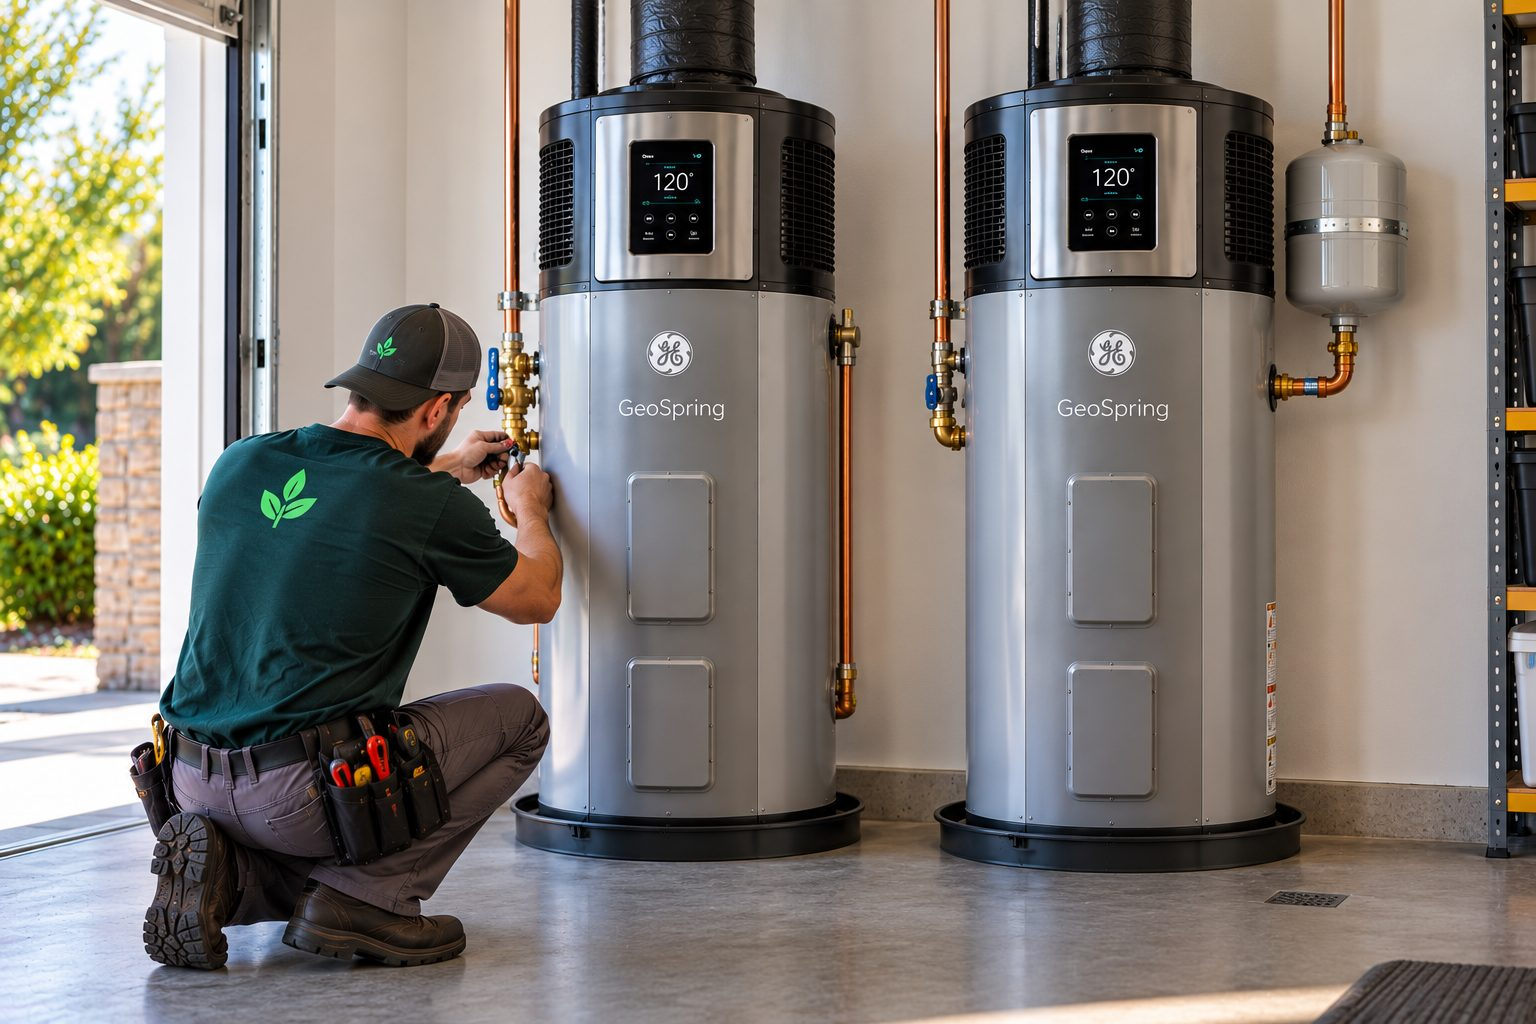
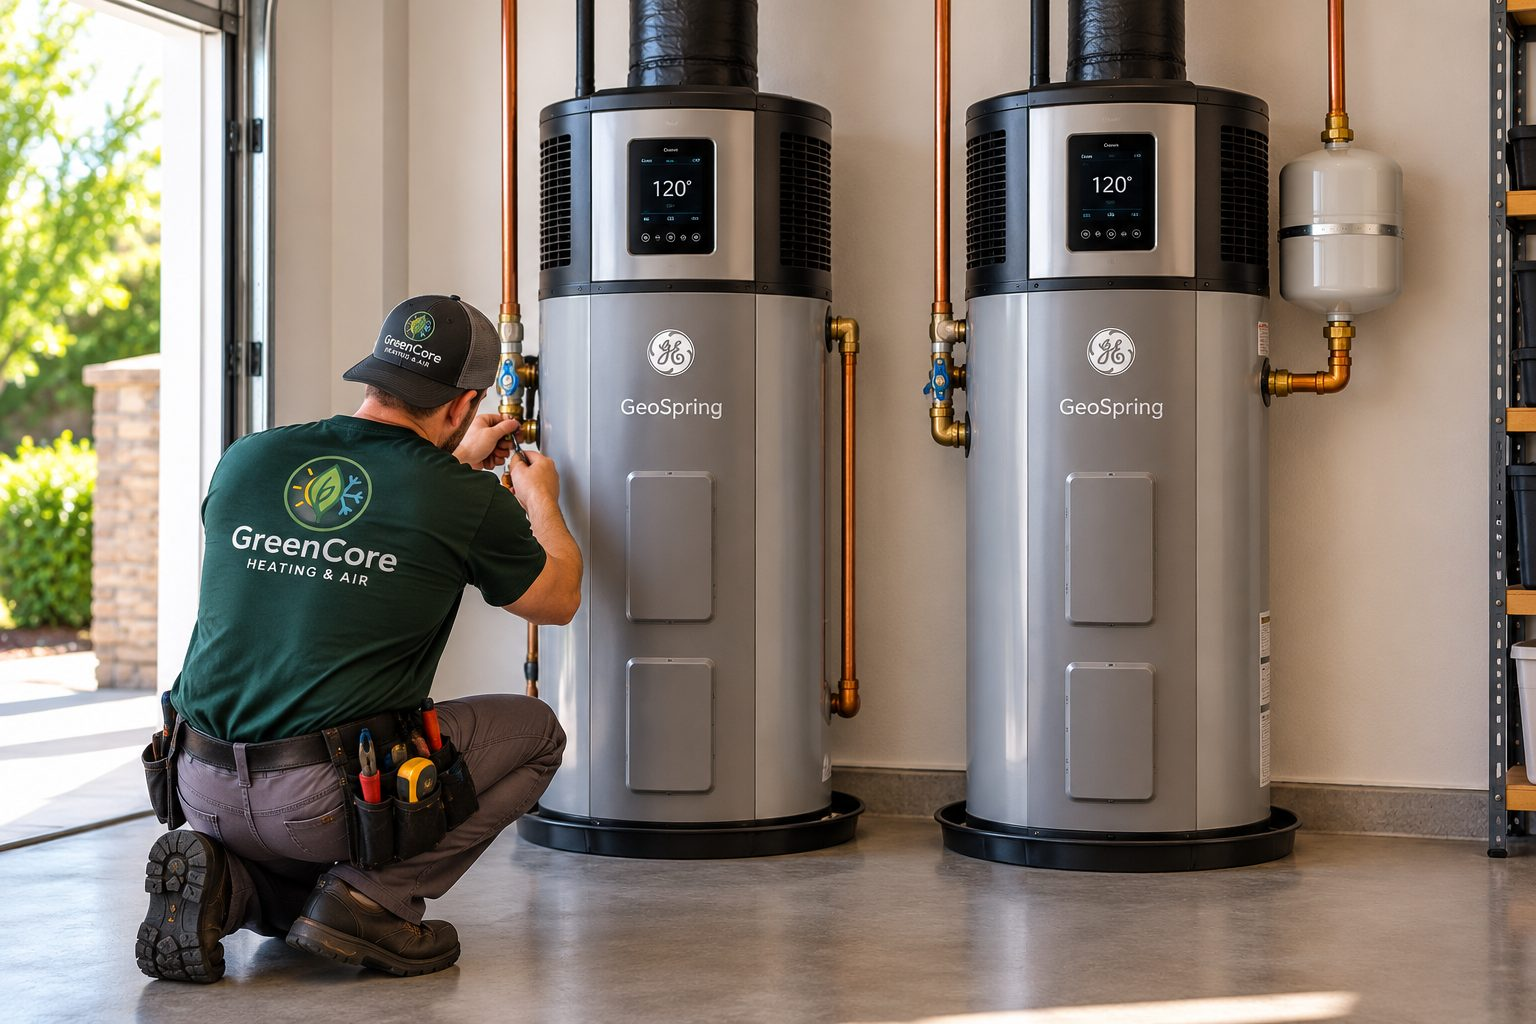
Add photos for tankless, gas, and electric water heater pages
Update the heat pump water heater photo.

Claude-Session: https://claude.ai/code/session_013rSpCKQcWfA8iYyqtCKnwL

diff --git a/src/data/services.ts b/src/data/services.ts
@@ -498,7 +498,7 @@ export const services: Service[] = [
     shortName: "Tankless Water Heaters",
     tagline: "Endless hot water, wall-mounted and space-saving.",
     summary: "Navien tankless water heater installation, repair, and yearly maintenance in Sonoma and Marin. Endless hot water in a compact, wall-mounted unit.",
-    heroImage: "/images/services/furnaces.jpg",
+    heroImage: "/images/services/tankless-water-heaters.jpg",
     overview: [
       "A tankless water heater heats water only when you turn on the tap, so you don't run out halfway through the third shower. Green Core installs Navien tankless water heaters for homes across Sonoma and Marin counties.",
       "Tankless units mount on a wall and free up the floor space a tank used to take. Modern condensing models like Navien vent through PVC pipe and are very efficient with gas.",
@@ -563,7 +563,7 @@ export const services: Service[] = [
     shortName: "Gas Water Heaters",
     tagline: "Fast, code-compliant gas water heater replacement.",
     summary: "Gas tank water heater replacement and repair in Sonoma and Marin, with same-day replacement when our schedule allows. Tank installs start at $2,850.",
-    heroImage: "/images/hero/services.jpg",
+    heroImage: "/images/services/gas-water-heaters.jpg",
     overview: [
       "When a gas water heater fails, you want hot water back fast. Green Core Heating & Air replaces and repairs gas tank water heaters for homes in Petaluma, Santa Rosa, Rohnert Park, Novato, San Rafael, and across Sonoma and Marin counties. Same-day water heater replacement is available when our schedule allows.",
       "We install Bradford White and American Standard gas water heaters, sized to your household. A typical home uses a 40- or 50-gallon tank, and we'll confirm the right size before we install.",
@@ -628,7 +628,7 @@ export const services: Service[] = [
     shortName: "Electric Water Heaters",
     tagline: "Reliable electric water heater replacement, with an upgrade path that saves.",
     summary: "Electric tank water heater replacement and repair in Sonoma and Marin, plus heat pump upgrades that can cut water heating costs.",
-    heroImage: "/images/services/duct-work.jpg",
+    heroImage: "/images/services/electric-water-heaters.jpg",
     overview: [
       "Green Core Heating & Air repairs and replaces electric tank water heaters for homes in Petaluma, Santa Rosa, Rohnert Park, Novato, San Rafael, and across Sonoma and Marin counties. We install Bradford White and American Standard electric water heaters, sized to your household.",
       "Electric tanks are simple: no gas line and no venting. Common problems like a failed heating element or thermostat can often be repaired. If the tank itself is leaking or the unit is near the end of its life, replacement is the better call. Same-day water heater replacement is available when our schedule allows.",
